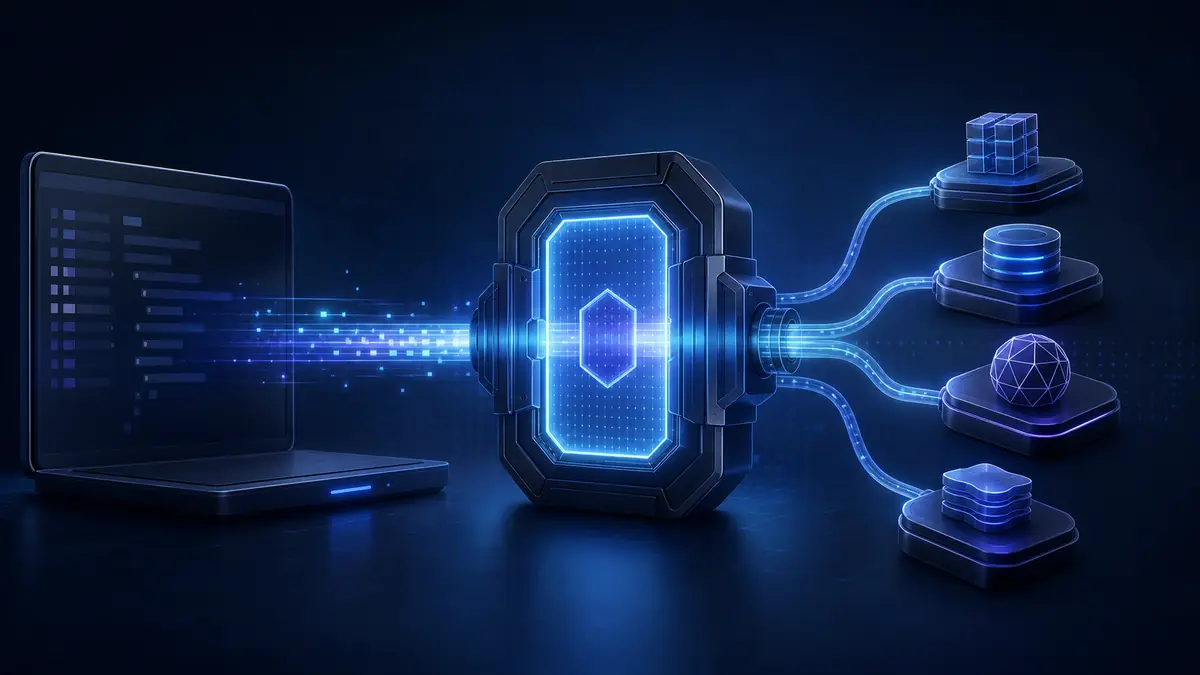
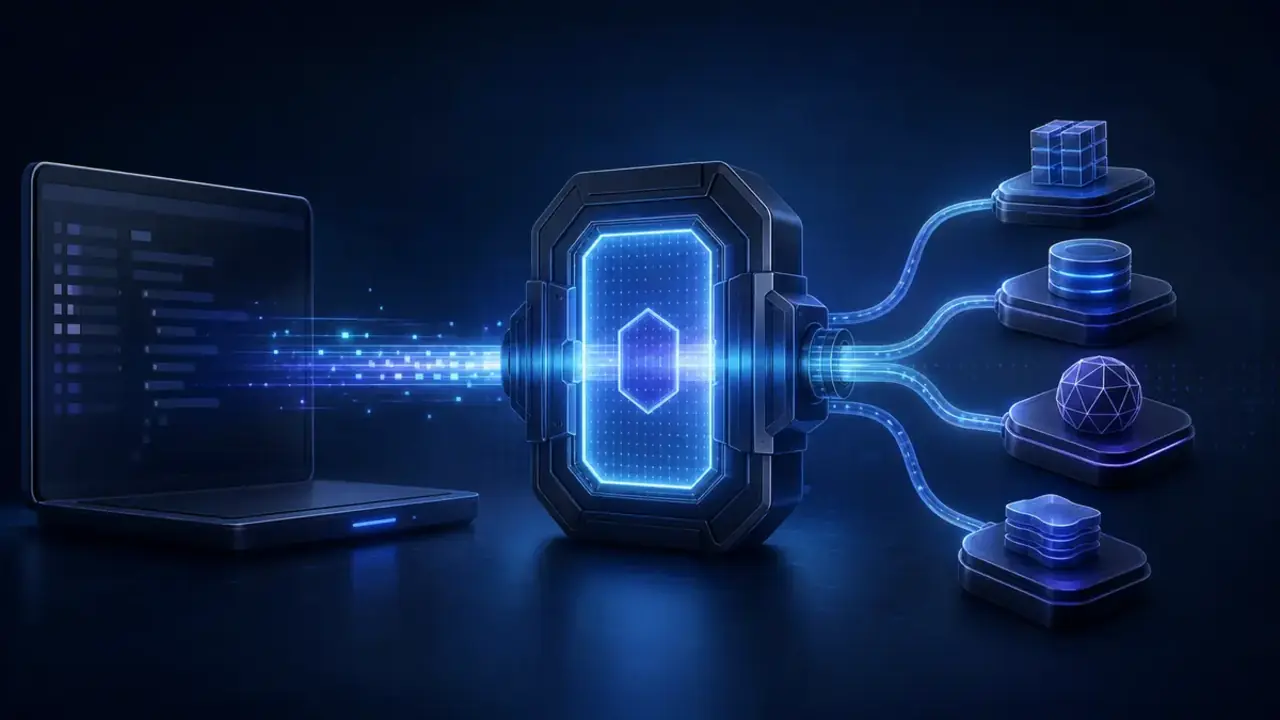
Normalize Codex MCP article media dimensions

diff --git a/articles/codex-mcp-server-setup/IMAGE_PROVENANCE.md b/articles/codex-mcp-server-setup/IMAGE_PROVENANCE.md
@@ -7,4 +7,4 @@ All four images in this directory were generated as original raster artwork with
 - `codex-mcp-server-tool-policy.webp` — least-privilege tool allowlist and approval checkpoint.
 - `codex-mcp-server-validation.webp` — connection, read, approval, and completion validation path.
 
-The generated PNG sources were normalized to 1200×675 immutable WebP assets. No SVG, HTML, CSS, canvas, or programmatic diagram source was used.
+The generated PNG sources were first normalized to 1200×675 WebP assets. On 2026-07-23, the dedicated cover was re-normalized to 1280×720 and the two body images used by the production article were re-normalized to 960×540 to satisfy the current article media contract. The imagery remains derived from the original raster generations; no SVG, HTML, CSS, canvas, or programmatic diagram source was used.
